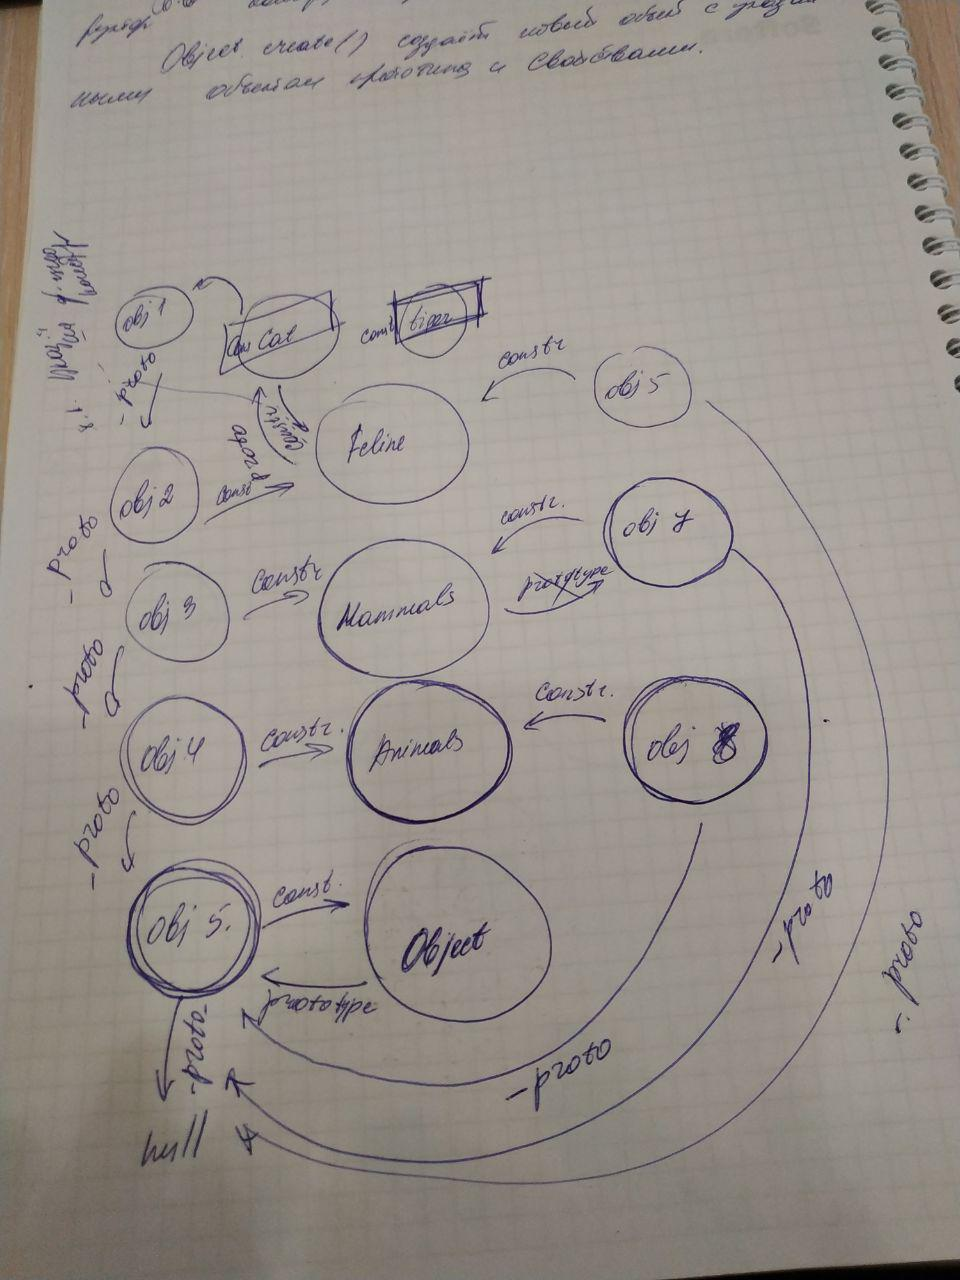
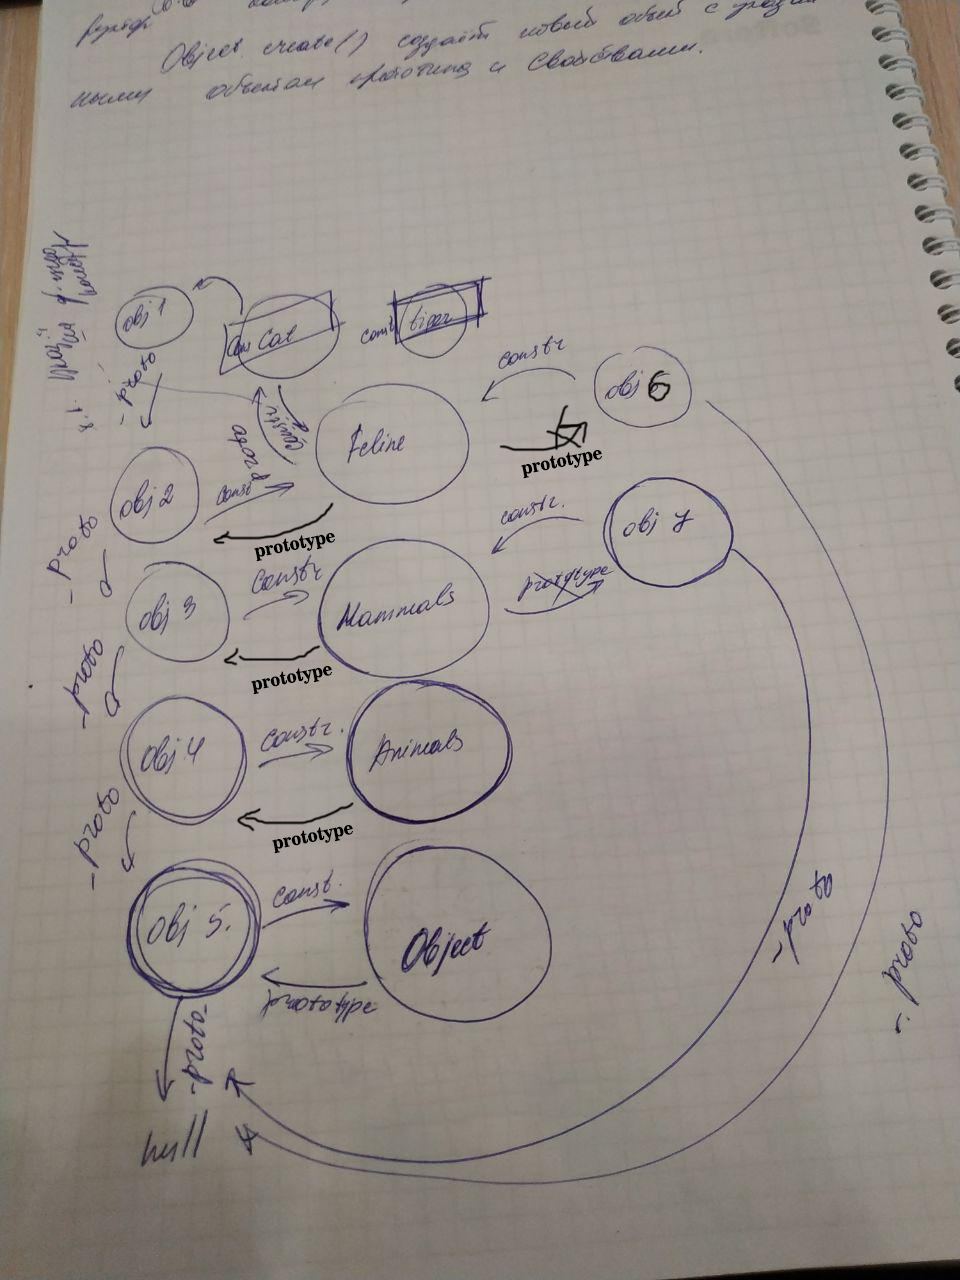
Fix 14.2

diff --git a/14.2/src/modules/main.js b/14.2/src/modules/main.js
@@ -1,24 +1,38 @@
 function Animal() {};
-/*создание объекта Animal, создание объекта 8
-на основе базового объекта 5, св-во __proto__ указывает на объект 5,
-у объекта 5 __proto__ - null, св-во constructor объекта 8 указывает на Animal,
-constructor объекта 5 - Object*/
+/*создание объекта Animal,
+создание объекта 4 на основе базового объекта 5,
+св-во __proto__ указывает на объект 5,
+constructor объекта 4 - Animal,
+у объекта 5 __proto__ - null, constructor объекта 5 - Object*/
 
 function Mammal() {}; 
-/*создание объекта Mammal, создание объекта 7
-на основе базового объекта 5, св-во __proto__ указывает на объект 5,
-у объекта 5 __proto__ - null, св-во constructor объекта 7 указывает на Mammal,
+/*создание объекта Mammal, создание объекта 7 на основе базового объекта 5,
+св-во constructor объекта 7 указывает на Mammal, 
+у объекта 7 св-во __proto__ указывает на объект 5,
+constructor объекта 7 - Mammal,
+у объекта 5 __proto__ - null, ,
 constructor объекта 5 - Object*/
 Mammal.prototype = Object.create(Animal.prototype);
+/*на основе объекта 4 создается объект 3,
+объект 3 __proto__ - объект 4,
+Mammal.prototype становится объект 3, а не объект 7 */
 Mammal.prototype.constructor = Mammal;
+//явно указываем, что у объекта 3 св-во конструктор указывает на объект Mammal
 
 function Feline() {};
-/*создание объекта Feline, создание объекта 6
-на основе базового объекта 5, св-во __proto__ указывает на объект 5,
-у объекта 5 __proto__ - null, св-во constructor объекта 6 указывает на Feline,
-constructor объекта 5 - Object*/
+/*создание объекта Feline, создание объекта 6 на основе базового объекта 5,
+св-во constructor объекта 6 указывает на Feline, 
+у объекта 6 св-во __proto__ указывает на объект 5,
+constructor объекта 6 - Feline*/
 Feline.prototype = Object.create(Mammal.prototype);
+/*на основе объекта 3 создается объект 2,
+объект 2 __proto__ - объект 3,
+Feline.prototype становится объект 2, а не объект 6 */
 Feline.prototype.constructor = Feline;
+//явно указываем, что у объекта 3 св-во конструктор указывает на объект Feline
 
 const cat = new Feline();
+/*на основе объекта 2 создается объект 1,
+__proto__ объекта 1 ссылается на объект 2,
+создается константа, которая хранит в себе ссылку на экземпляр объекта Feline - объект 1*/
 console.log(cat);

diff --git a/14.2/src/style.css b/14.2/src/style.css
@@ -3,7 +3,7 @@
   margin: auto;
   display: flex;
   justify-content: center;
-  align-items: center;
+  align-items: start;
 }
 
 img:first-child {
